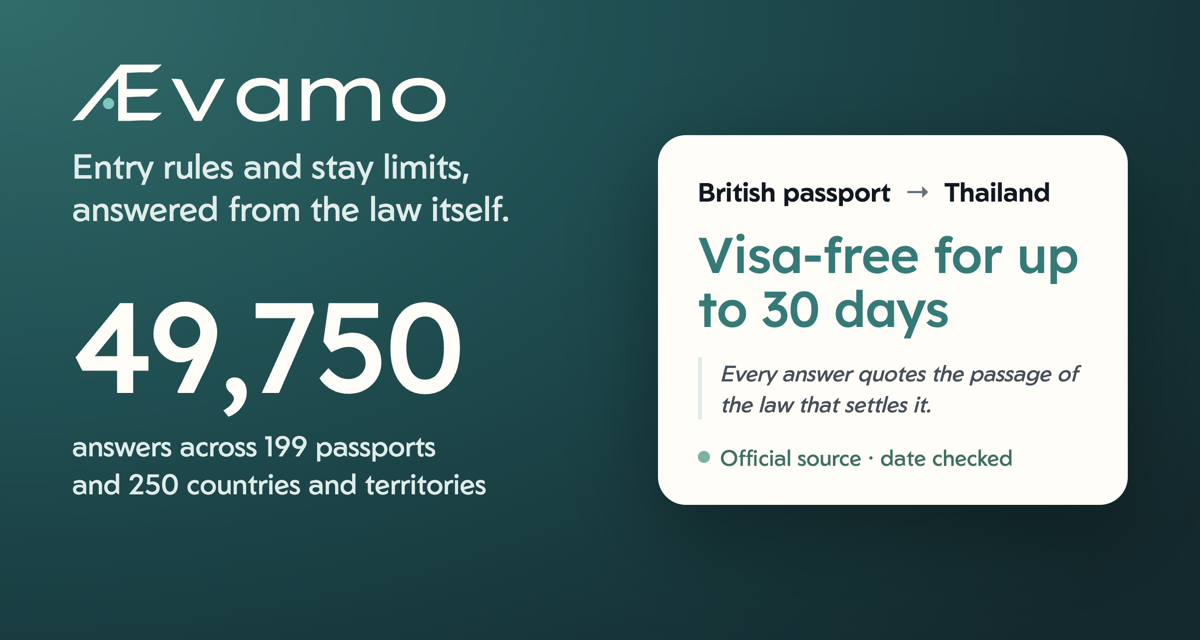
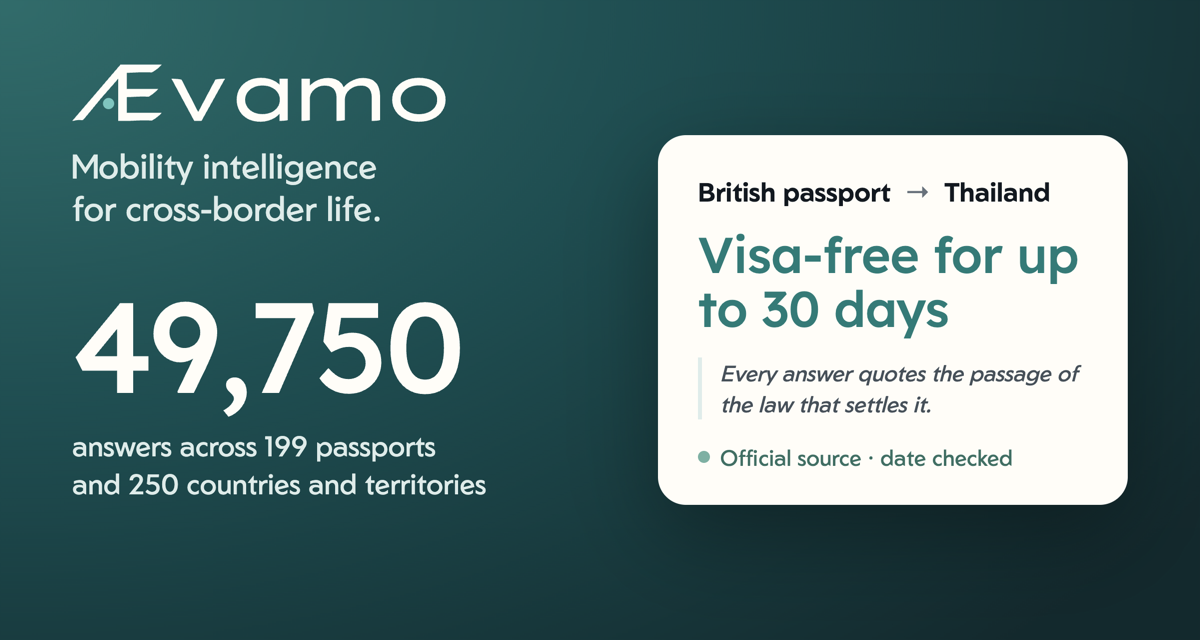
Aevamo: lead with mobility intelligence for cross-border life
Claude-Session: https://claude.ai/code/session_016TwFnpkB1d3XrTp6yQb8GW

Changed region(s): [[0.0617, 0.2188, 0.4317, 0.3438]]

diff --git a/README.md b/README.md
@@ -11,7 +11,7 @@ Founder. Product at Nectis, building Aevamo.
 Turns the relationships inside a community into hard evidence of what changed, so the people who fund the work can see it instead of taking it on faith.
 
 **[Aevamo](https://aevamo.com)** · Founder<br>
-Whether you can enter a country, how long you can stay, and how the days are counted, answered from the law itself.
+Mobility intelligence for cross-border life: whether you can enter a country, how long you can stay, and how the days are counted, answered from the law itself.
 - Entry rules for 199 passports into 250 countries and territories: 49,750 answers, drawn from more than 2,000 recorded rules.
 - Every answer quotes the passage of the official law, decree or gazette it rests on, links to the source, and shows the date it was last checked.
 - Where sources disagree, the official instrument wins and the disagreement is recorded rather than averaged away.
